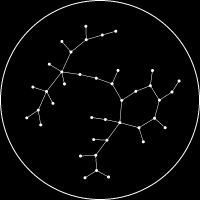
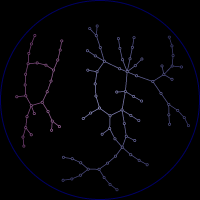
spring_force make new thumbnail and move to colored section of samples_collection

diff --git a/app/experimental/components/samples_collection.jsx b/app/experimental/components/samples_collection.jsx
@@ -85,13 +85,6 @@ const wbConfig: Array<SamplePreviewConfig> = [
     img_path: './thumbnails/dots_map_dynamic.png',
     status: 'in_progress',
   },
-  {
-    name: 'spring force',
-    description: 'like springs between points. for now not very optimal by CPU usage',
-    sample_url: './spring_force',
-    img_path: './thumbnails/spring_force.png',
-    status: 'in_progress',
-  },
 ]
 
 const colorConfig: Array<SamplePreviewConfig> = [
@@ -115,6 +108,13 @@ const colorConfig: Array<SamplePreviewConfig> = [
     sample_url: './voronoi_lloyd_vawes_rand',
     img_path: './thumbnails/lloyd_waves_rand.png',
     status: 'almost_ready',
+  },
+  {
+    name: 'spring force',
+    description: 'like springs between points',
+    sample_url: './spring_force',
+    img_path: './thumbnails/spring_force.png',
+    status: 'in_progress',
   },
   {
     name: 'rrt diagram',
